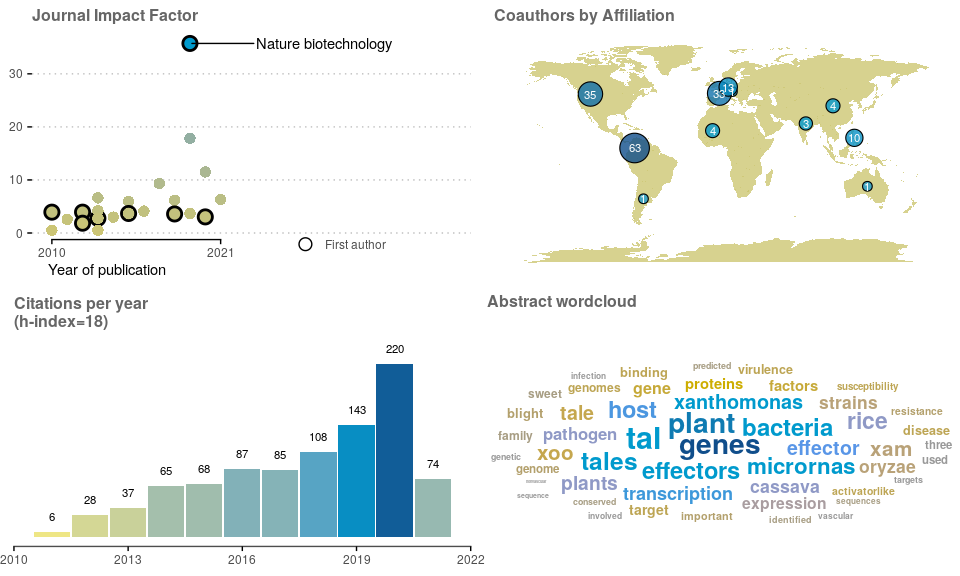
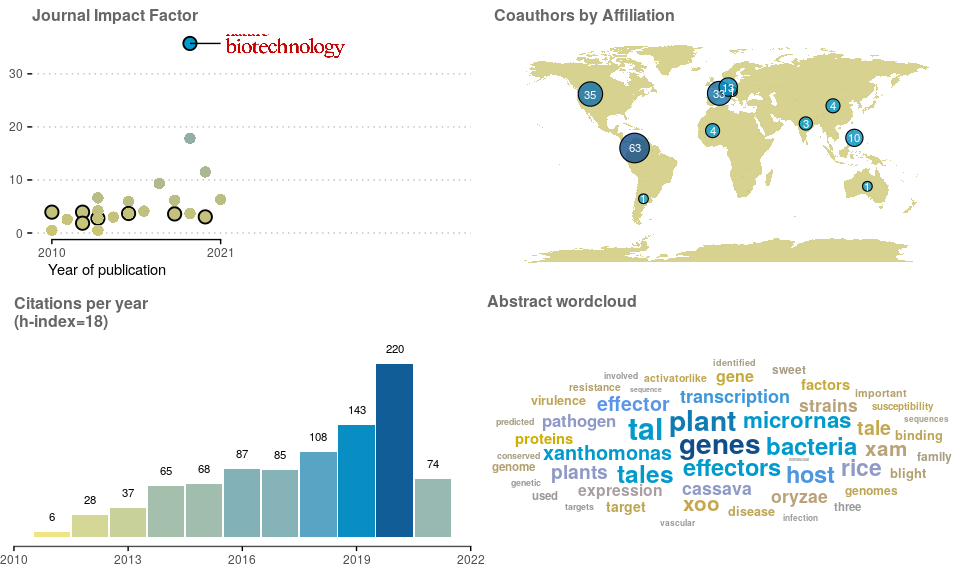
#update to highlight last authors

diff --git a/FancyPub.md b/FancyPub.md
@@ -57,7 +57,7 @@ library(dplyr)
 Scholar_ID <- "Sc3CfZsAAAAJ" 
 # this is your author scholar Id, it'll be found in the adress of your scholar profile after user=and before &, https://scholar.google.com/citations?user=Sc3CfZsAAAAJ&hl=en
 Author_fullname<- c("Alvaro L Perez-Quintero","Alvaro Perez-Quintero") #full name as it appears in articles in pubmed
-Author_lastname<-c("Perez-Quintero","Pérez-Quintero") #last name and alternative spellings
+Author_lastname<-c("Perez-Quintero","Pérez-Quintero","Perez‐Quintero") #last name and alternative spellings
 
 #Get publication record from scholar
 SC<-gcite(user=Scholar_ID,plot_wordcloud = FALSE)
@@ -180,6 +180,71 @@ p1v3
 ```
 
 ![](FancyPub_files/figure-gfm/Publication%20history%20v3%20-1.png)<!-- -->
+
+Version 4. Highlight first and last author
+
+``` r
+#highlight last author paper
+lauthor<-sapply(str_split(df$authors,","), tail, 1)#get last author for each paper
+df$first_last<-ifelse(grepl(paste(Author_lastname,collapse = "|"),lauthor),2,df$first) #assign value 2 to last author papers, first author gets value 1
+
+df$either<-df$first_last #create colum to give bold stroke to either firt and last
+df$either[df$either>1]<-1
+#df$first_last[df$first_last==0]<-NA
+
+
+#Plot
+#lines with changes added to highlight last auhtor ar eindicated with (last author) # this is the version with Journal impact factor vs publication history
+p1v4<-ggplot(df,aes(y=ImpactFactor,x=year))+
+  geom_point(aes(fill=total.citations,stroke=either,shape=as.character(first_last)),size=4,na.rm = TRUE)+ #points filled according to impact factor, with border according to first author (last author)
+  geom_text_repel(aes(label=labels), xlim = c(max(df$year)+2, Inf), ylim = c(-Inf, Inf),min.segment.length = 0,na.rm = TRUE)+ #add labels starting 2 years after the xlimit
+  theme_cowplot()+
+  coord_cartesian(clip = "off") + #
+  coord_capped_cart(bottom='both')+
+  scale_fill_gradient2(low="grey70",mid="khaki3",high="deepskyblue3", guide=FALSE)+ #create color scale
+  scale_x_continuous(breaks=c(min(df$year),max(df$year)),limits = c(min(df$year),max(df$year)+15))+ #modify x axis to expand to the right, but only label years with dara
+  scale_shape_manual(values=c(21,21,23),breaks=c("1","2"),name=NULL,labels=c("First Author","Last Author"))+ #scale fo shapes for first and last author (last author)
+  coord_capped_cart(bottom='both')+ #limit the line on the x axis to the limits
+  continuous_scale("stroke", "stroke",  palette = function(x){scales::rescale(x, c(0, 1.5))}, breaks = c(1),name = NULL,guide=FALSE)+ # Modify scale for stroke size (last author)
+  ggtitle("Journal Impact Factor")+
+  #modify axes to clean up the plot
+  xlab("Year of publication")+
+  theme(
+    axis.title.x =element_text(angle=0,color="black",hjust = 0.05,size=11),axis.text.x = element_text(size=9,color="grey30"),
+    axis.line.y = element_blank(),panel.grid.major.y = element_line(color="grey",linetype = 3),axis.title.y.left = element_blank(), axis.text.y = element_text(size=9,color="grey30"),#y axis
+    plot.title = element_text(color="grey40",face = "bold",size=12), #tittle
+    legend.position = c(0.6,0), legend.text= element_text(size=9,color="grey30"),#legend
+    )+
+  guides(shape = guide_legend(override.aes = list(stroke=1.5)))#get same size for stroke in the legend (last author)
+
+#Plot
+#lines with changes added to highlight last auhtor ar eindicated with (last author) # this is the version with citations vs publication history
+p1v4<-ggplot(df,aes(y=total.citations,x=year))+
+  geom_point(aes(fill=total.citations,stroke=either,shape=as.character(first_last)),size=4,na.rm = TRUE)+ #points filled according to impact factor, with border according to first author (last author)
+  geom_text_repel(aes(label=labels), xlim = c(max(df$year)+2, Inf), ylim = c(-Inf, Inf),min.segment.length = 0,na.rm = TRUE)+ #add labels starting 2 years after the xlimit
+  theme_cowplot()+
+  coord_cartesian(clip = "off") + #
+  coord_capped_cart(bottom='both')+
+  scale_fill_gradient2(low="grey70",mid="khaki3",high="deepskyblue3", guide=FALSE)+ #create color scale for points
+  scale_shape_manual(values=c(21,21,23),breaks=c("1","2"),name=NULL,labels=c("First Author","Last Author"))+ #scale fo shapes for first and last author (last author)
+  scale_x_continuous(breaks=c(min(df$year),max(df$year)),limits = c(min(df$year),max(df$year)+15))+ #modify x axis to expand to the right, but only label years with dara
+  coord_capped_cart(bottom='both')+ #limit the line on the x axis to the limits
+  continuous_scale("stroke", "stroke",  palette = function(x){scales::rescale(x, c(0, 1.5))}, breaks = c(1),name = NULL,guide=FALSE)+ # Modify scale for stroke size (last author)
+  ggtitle("Citations per Article")+
+  #modify axes to clean up the plot
+  xlab("Year of publication")+
+  theme(
+    axis.title.x =element_text(angle=0,color="black",hjust = 0.05,size=11),axis.text.x = element_text(size=9,color="grey30"),
+    axis.line.y = element_blank(),panel.grid.major.y = element_line(color="grey",linetype = 3),axis.title.y.left = element_blank(), axis.text.y = element_text(size=9,color="grey30"),#y axis
+    plot.title = element_text(color="grey40",face = "bold",size=12), #tittle
+    legend.position = c(0.6,0), legend.text= element_text(size=9,color="grey30"),#legend
+    )+
+  guides(shape = guide_legend(override.aes = list(stroke=1.5)))#get same size for stroke in the legend (last author)
+
+p1v4
+```
+
+![](FancyPub_files/figure-gfm/Publication%20history%20v4%20-1.png)<!-- -->
 
 ## 2\. Coauthor affiliation Map
 
@@ -360,7 +425,7 @@ p4
 #use cowplot's plot grid to arrange plots as needed
 
 #all plots same size
-plot_grid(p1v1,p2,p3,p4,ncol=2,nrow=2)
+plot_grid(p1v2,p2,p3,p4,ncol=2,nrow=2)
 ```
 
 ![](FancyPub_files/figure-gfm/Big%20plot-1.png)<!-- -->
@@ -370,7 +435,7 @@ plot_grid(p1v1,p2,p3,p4,ncol=2,nrow=2)
 
 panel1<-plot_grid(p3,p4,rel_widths = c(1,1.5),ncol=2)
 panel2<-plot_grid(p2,panel1,ncol=1, rel_heights = c(1.5,1))
-allpanels<-plot_grid(p1v1,panel2,ncol=2,rel_widths = c(1.5,2))
+allpanels<-plot_grid(p1v2,panel2,ncol=2,rel_widths = c(1.5,2))
 title <- ggdraw() + draw_label(paste("Publication summary\n",Author_fullname[1],sep=""),fontface = 'bold',x = 0,  hjust = 0 ,color="deepskyblue4") +
   theme(plot.margin = margin(0, 0, 0, 0))
 plot_grid( title, allpanels,  ncol = 1,
